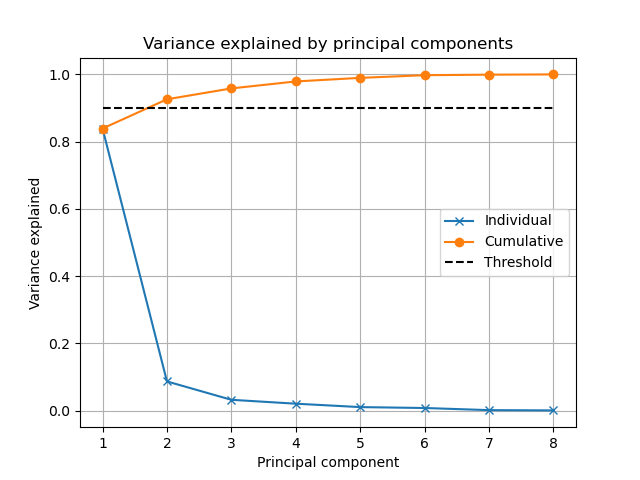
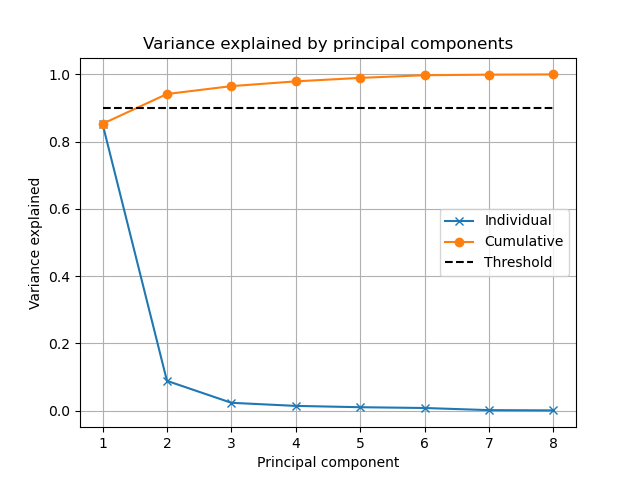
Changes in code + outliers fix + new plots

diff --git a/scripts/AbaloneDataset.py b/scripts/AbaloneDataset.py
@@ -3,38 +3,28 @@ import numpy as np
 import pandas as pd
 import matplotlib.pyplot as plt
 import seaborn as sns
+import math
 from scipy.linalg import svd
+from scipy.stats import zscore
 
-# Load dataset and convert the dataframe to numpy array
+# Load dataset and convert to numpy array
 filename = 'Data/abalone.csv'
 df = pd.read_csv(filename)
 raw_data = df.values  
-#print(raw_data)
-#print('data shape', raw_data.shape)
-
-# Data matrix X 
 cols = range(1, 9) 
 X = raw_data[:, cols].astype(np.float64)
-#print('X', X)
 
-# Extract the attribute names from the header of the csv
 attributeNames = np.asarray(df.columns[cols])
-#print(attributeNames)
-
-# Extract the strings for each sample from the first column
 classLabels = raw_data[:, 0] 
-print('class labels', classLabels)
-
-# Save the 3 class labels 
+#print('class labels', classLabels)
 classNames = np.unique(classLabels)
-#print('class names', classNames)
 
 # Extract class names and encode with integers (dict)
 classDict = dict(zip(classNames,range(len(classNames))))
 #print('class dictionary', classDict)
 
 y = np.array([classDict[v] for v in classLabels])
-print('y', y)
+#print('y', y)
 
 N, M = X.shape
 print('N data objects = ', N, 'M attributes = ', M)
@@ -73,14 +63,64 @@ for i in ax.patches:
 
 ax.set_title('Attributes and their standard deviation',
              loc ='center')
-#########################################################################
 
+# Box plot of each attribute
+plt.figure()
+plt.title('Abalone: Boxplot')
+plt.boxplot(X)
+plt.xticks(range(1,M+1), attributeNames, fontsize=6, rotation=30)
+
+#########################################################################
 
 ### STANDARDIZED DATA ###
 # CenteredData = X - np.ones((N,1))*X.mean(axis=0)
 Y = X - np.ones((N, 1))*X.mean(axis=0)
 Y = Y*(1/np.std(Y,0))
+print('Standardized data', Y)
 
+### FINDING THE OUTLIERS ###
+# Box plot of each attribute after standardization
+plt.figure()
+plt.title('Abalone: Boxplot Standardized Data')
+plt.boxplot(Y)
+plt.xticks(range(1,M+1), attributeNames, fontsize=6, rotation=30)
+
+# Plot histograms of all attributes.
+plt.figure()
+u = int(np.floor(np.sqrt(M))); v = int(np.ceil(int(M)/u))
+
+for i in range(M):
+    plt.subplot(u,v,i+1)
+    plt.hist(Y[:,i])
+    plt.xlabel(attributeNames[i])
+    plt.ylim(0, N) # Make the y-axes equal for improved readability
+    if i%v!=0: plt.yticks([])
+    if i==0: plt.title('Abalone: Histogram after standardization')
+
+# Remove outliers from standardized data
+print('Height column: ', Y[:,2])
+outlier_mask = (Y[:,2] > 8)
+print('Outlier mask', outlier_mask)
+valid_mask = np.logical_not(outlier_mask)
+
+Y = Y[valid_mask,:]
+print('Y', Y)
+y = y[valid_mask]
+print('y', y)
+N = len(y)
+print('N', N)
+
+plt.figure(figsize=(14,9))
+u = int(np.floor(np.sqrt(M))); v = int(np.ceil(float(M)/u))
+for i in range(M):
+    plt.subplot(u,v,i+1)
+    plt.hist(Y[:,i])
+    plt.xlabel(attributeNames[i])
+    plt.ylim(0, N) # Make the y-axes equal for improved readability
+    if i%v!=0: plt.yticks([])
+    if i==0: plt.title('Abalone Histogram after outlier detection')
+
+########################### PCA ##########################################
 # PCA by computing Singular Value Decomposition of y
 # S matrix with the singular values (square root of the eigenvalues)
 U, S, Vh = svd(Y, full_matrices=False)
@@ -112,73 +152,65 @@ plt.grid()
 plt.savefig('Abalone_PCA.png')
 
 
-'''
-Data = [CenteredData, StandardizedData]
-titles = ['Centered Data', 'Standardized Data']
-threshold = 0.9
-# Choose two PCs to plot the projection
+# Simple Visualization of the first two attributes
+fig = plt.figure()
+plt.title('Abalone data')
+
+# Data attributes to be plotted are the first 2 f.ex.
 i = 0
 j = 1
 
-# Make the plot
-plt.figure(figsize=(10,15))
-plt.subplots_adjust(hspace=.5)
-plt.title('Abalone: Effect of standardization')
-nrows=3
-ncols=2
-for k in range(2):
-    # Obtain the PCA solution by calculate the SVD
-    U,S,Vh = svd(Data[k],full_matrices=False)
-    V=Vh.T # For the direction of V to fit the convention in the course we transpose
-    # For visualization purposes, we flip the directionality of the
-    # principal directions such that the directions match for Y1 and Y2.
-    if k==1: V = -V; U = -U; 
-    
-    # Compute variance explained
-    rho = (S*S) / (S*S).sum() 
-    
-    # Compute the projection onto the principal components
-    Z = U*S;
-    
-    # Plot projection
-    plt.subplot(nrows, ncols, 1+k)
-    C = len(classNames)
-    for c in range(C):
-        plt.plot(Z[y==c,i], Z[y==c,j], '.', alpha=.5)
-    plt.xlabel('PC'+str(i+1))
-    plt.ylabel('PC'+str(j+1))
-    plt.title(titles[k] + '\n' + 'Projection' )
-    plt.legend(classNames)
-    plt.axis('equal')
-    
-    # Plot attribute coefficients in principal component space
-    plt.subplot(nrows, ncols,  3+k)
-    for att in range(V.shape[1]):
-        plt.arrow(0,0, V[att,i], V[att,j])
-        plt.text(V[att,i], V[att,j], attributeNames[att])
-    plt.xlim([-1,1])
-    plt.ylim([-1,1])
-    plt.xlabel('PC'+str(i+1))
-    plt.ylabel('PC'+str(j+1))
-    plt.grid()
-    # Add a unit circle
-    plt.plot(np.cos(np.arange(0, 2*np.pi, 0.01)), 
-         np.sin(np.arange(0, 2*np.pi, 0.01)));
-    plt.title(titles[k] +'\n'+'Attribute coefficients')
-    plt.axis('equal')
-            
-    # Plot cumulative variance explained
-    plt.subplot(nrows, ncols,  5+k);
-    plt.plot(range(1,len(rho)+1),rho,'x-')
-    plt.plot(range(1,len(rho)+1),np.cumsum(rho),'o-')
-    plt.plot([1,len(rho)],[threshold, threshold],'k--')
-    plt.title('Variance explained by principal components');
-    plt.xlabel('Principal component');
-    plt.ylabel('Variance explained');
-    plt.legend(['Individual','Cumulative','Threshold'])
-    plt.grid()
-    plt.title(titles[k]+'\n'+'Variance explained')
+for c in range(C):
+    # select indices belonging to class c:
+    class_mask = y==c
+    plt.plot(Y[class_mask,i], Y[class_mask,j], 'o',alpha=.3)
 
-'''
+plt.legend(classNames)
+plt.xlabel(attributeNames[i])
+plt.ylabel(attributeNames[j])
+plt.show()
+
+# Compute the projection onto the principal components
+Z = U*S;  
+print('Z', Z)
+
+# Choose two PCs to plot the projection
+i = 0
+j = 1  
+# Plot projection
+plt.figure()
+C = len(classNames)
+for c in range(C):
+    plt.plot(Z[y==c,i], Z[y==c,j], '.', alpha=.5)
+plt.xlabel('PC'+str(i+1))
+plt.ylabel('PC'+str(j+1))
+plt.title('Projection: PCA' )
+plt.legend(classNames)
+plt.axis('equal')
+
+
+
+plt.figure()
+pcs = [0,1,2]
+legendStrs = ['PC'+str(e+1) for e in pcs]
+c = ['r','g','b']
+bw = .2
+r = np.arange(1,M+1)
+for i in pcs:    
+    plt.bar(r+i*bw, V[:,i], width=bw)
+plt.xticks(r+bw, r)
+plt.xlabel('Attributes')
+plt.ylabel('Component coefficients')
+plt.legend(legendStrs)
+plt.grid()
+plt.title('Abalone: PCA Component Coefficients')
+
+print('PC1:')
+print(V[:,0].T)
+print('PC2:')
+print(V[:,1].T)
+print('PC3:')
+print(V[:,2].T)
+
 plt.show()
         
